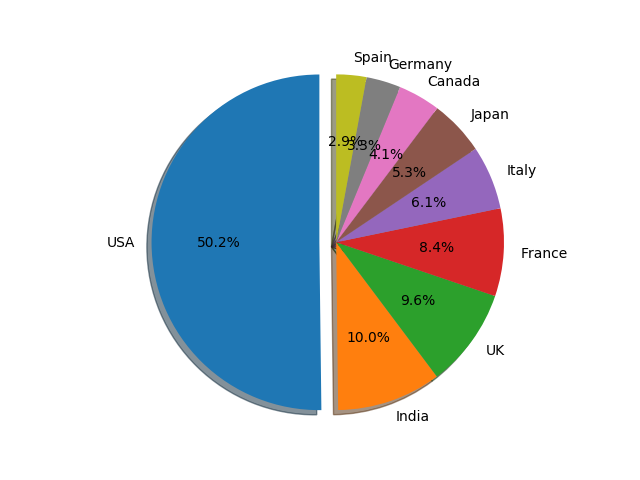
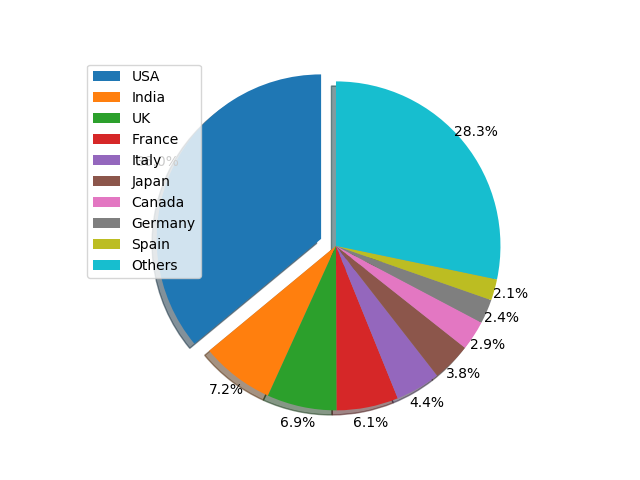
Actualizada grafica de peliculas por pais

Changed region(s): [[0.125, 0.0938, 0.875, 0.9062], [0.3438, 0.1875, 0.375, 0.2188]]

diff --git a/scripts/peliculas_por_pais_grafica.py b/scripts/peliculas_por_pais_grafica.py
@@ -19,6 +19,7 @@ from pyspark import SparkConf, SparkContext, SQLContext
 from pyspark.sql import SparkSession
 from pyspark.sql.functions import col, split, sum, mean, ceil, collect_list, asc, desc
 
+
 # Graficos
 import matplotlib
 matplotlib.use('Agg')
@@ -41,14 +42,12 @@ sc = SparkContext(conf = conf)
 spark = SparkSession(sc)
 sqlContext = SQLContext(sc)
 
-# Estas lineas para obtener el numero de ejecutores y cores no funcionan como deberian
-#NUM_EXECUTORS = conf.get('spark.executor.instances')
-#NUM_CORES = conf.get('spark.executor.cores')
+# Particiones de los datos: tantas como cores tengamos
 sqlContext.setConf("spark.sql.shuffle.partitions", "4")
 
 ## PROCESAMIENTO DE LOS DATOS ##
 # Lectura del archivo csv: con la opcion "header" hacemos que la primera fila haga de cabecera
-DFVar = spark.read.option("header", "true").csv("./datasets/IMDb_movies.csv")
+DFVar = spark.read.option("header", "true").csv("../datasets/IMDb_movies.csv")
 
 # Especificamos que columnas queremos usar para este caso...
 colNames = DFVar.schema.names 
@@ -59,6 +58,7 @@ droppedCols = set(colNames).symmetric_difference(set(wantedCols))
 DFVar = DFVar.drop(*droppedCols)
 
 # Nos quedamos solo con el pais principal de la pelicula
+num_movies = DFVar.count()
 DFVar = DFVar.withColumn("mainCountry", split(col("country"), "\\,").getItem(0))
 DFVar = DFVar.drop("country")
 
@@ -71,19 +71,28 @@ DFVar = DFVar.sort(desc("count"))
 num_countries = DFVar.count()
 DFVar = DFVar.limit(VISIBLE_COUNTRIES - 1)
 
+# Le metemos una fila al DF
+maincountries_movies = DFVar.agg(sum("count")).select("sum(count)").rdd.flatMap(lambda x: x).collect()[0]
+otros_lista = [["Others", num_movies - maincountries_movies]]
+otros_DF = spark.createDataFrame(otros_lista)
+DFVar = DFVar.union(otros_DF)
+DFVar.show()
+
 # Metadatos
 labels = DFVar.select("mainCountry").rdd.flatMap(lambda x: x).collect()
 sizes = DFVar.select("count").rdd.flatMap(lambda x: x).collect()
-explode = (0.1, 0, 0, 0, 0, 0, 0, 0, 0)
+explode = [0] * VISIBLE_COUNTRIES
+explode[0] = 0.1
 
 # Se dibuja el grafico de tarta
 fig1, ax1 = plt.subplots()
-ax1.pie(sizes, explode=explode, labels=labels, autopct='%1.1f%%', 
-shadow=True, startangle=90)
+ax1.pie(sizes, explode=explode, autopct='%1.1f%%', 
+pctdistance=1.1, shadow=True, startangle=90)
 ax1.axis('equal') # para que sea un circulo
+plt.legend(labels, loc = "upper left")
 
 # La guardamos en el sistema de ficheros
-plt.savefig('./results/peliculas_por_pais.png')
+plt.savefig('../results/peliculas_por_pais.png')
 
 # Debug del tiempo, para el benchmarking
 print("--- %s seconds ---" % (time.time() - start_time))
